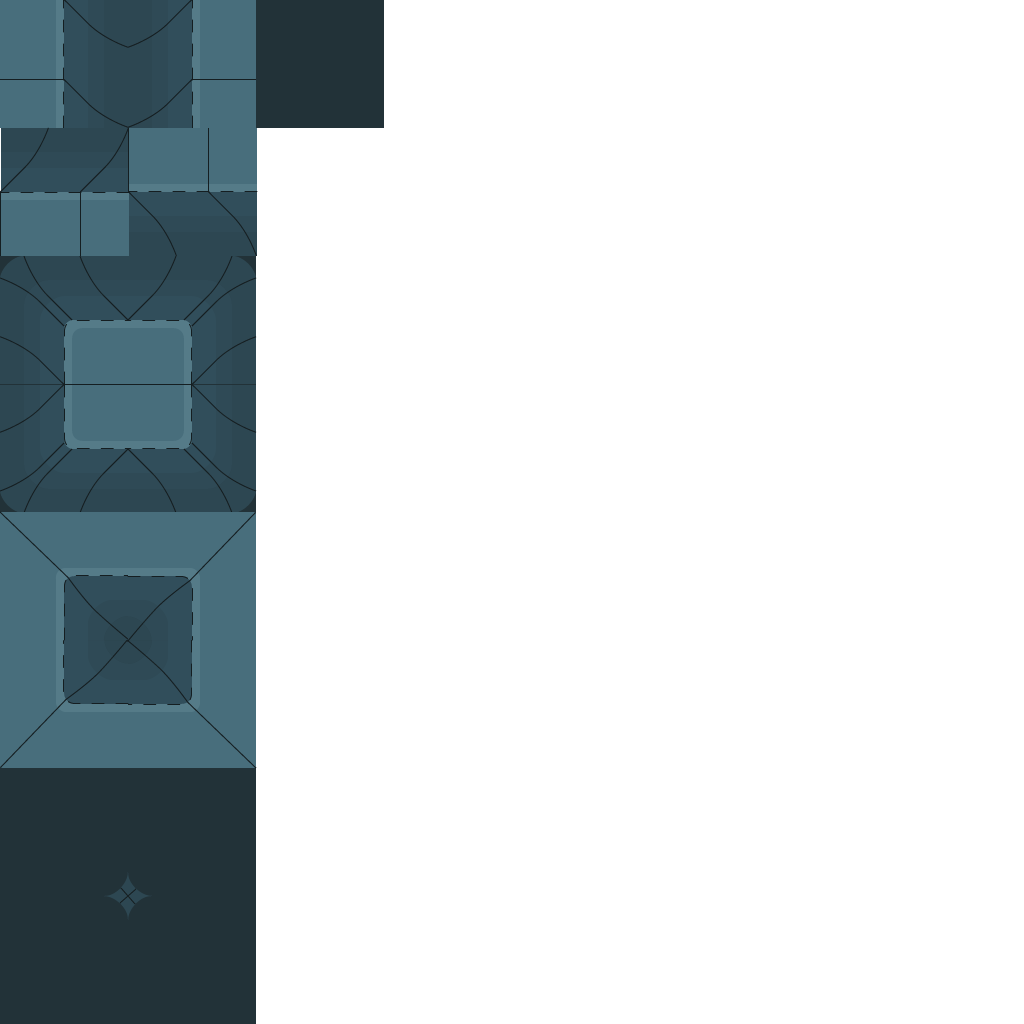
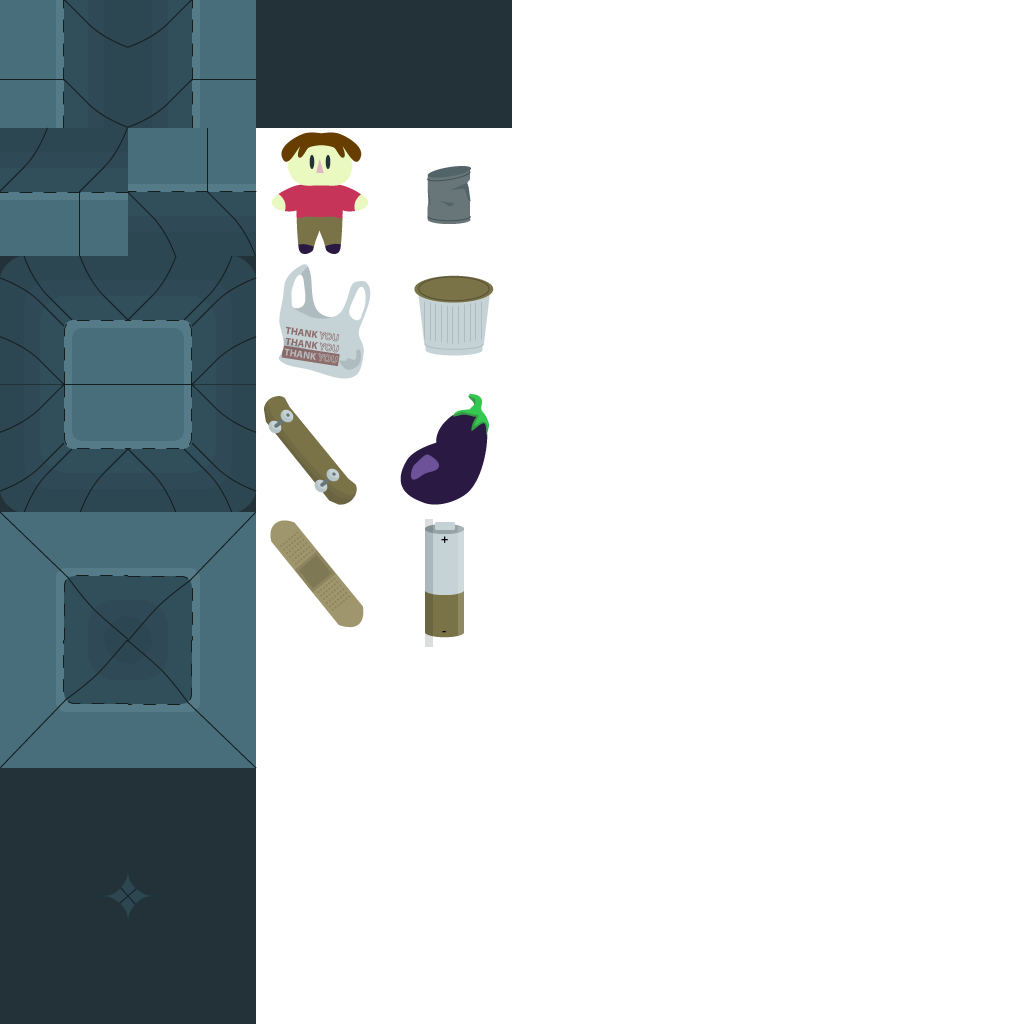
Merge

diff --git a/src/states/Game.js b/src/states/Game.js
@@ -3,7 +3,7 @@ import Phaser from 'phaser'
 import Player from '../sprites/Player'
 import {setResponsiveWidth} from '../utils'
 
-const PLAYER_SPEED = 100
+const PLAYER_SPEED = 200
 
 export default class extends Phaser.State {
   init () {}
@@ -25,11 +25,13 @@ export default class extends Phaser.State {
     this.sewer_layer = this.tilemap.createLayer('sewer')
     this.enemy_spawns_layer = this.tilemap.createLayer('enemy_spawns')
     // this.enemy_spawns_layer.visible = false
+    this.interact_layer = this.tilemap.createLayer('interact')
 
 
     this.tilemap.setCollisionByExclusion([0], true, 'sewer')
     // this.tilemap.setCollisionByExclusion([0], true, 'enemy_spawns')
     this.tilemap.setTileIndexCallback([65], this.generateEnemy, this, 'enemy_spawns')
+    //this.tilemap.setCollisionByExclusion([0], true, 'interact')
 
     this.loadEnemyTriggers()
 
@@ -48,7 +50,8 @@ export default class extends Phaser.State {
     this.player = new Player({
       game: this.game,
       x: 512,
-      y: 512
+      y: 512,
+      image: this.tilemap.tiles[10]
     })
 
     this.keys = this.game.input.keyboard.createCursorKeys()
@@ -80,6 +83,9 @@ export default class extends Phaser.State {
   update () {
     this.game.physics.arcade.collide(this.player, this.sewer_layer)
     // this.game.physics.arcade.overlap(this.player, this.enemy_spawns_triggers, this.generateEnemy, null, this)
+    if(this.game.physics.arcade.collide(this.player, this.interact_layer)) {
+      console.info('interact collide')
+    }
 
     this.game.physics.arcade.collide(this.player, this.enemy_spawns_layer)
     if (this.keys.left.isDown) {

diff --git a/src/states/Splash.js b/src/states/Splash.js
@@ -15,7 +15,8 @@ export default class extends Phaser.State {
     //
     this.game.load.tilemap('game', 'assets/tilemaps/game.json', null, Phaser.Tilemap.TILED_JSON)
     this.game.load.image('sewer-tiles', 'assets/images/sewer-tiles.png')
-    this.game.load.image('player', 'assets/images/player.png')
+    this.game.load.spritesheet('sewer-sprites', 'assets/images/sewer-tiles.png', 128, 128)
+    //this.game.load.image('player', 'assets/images/player.png')
     loadAudio(this.game, 'BGM-intro', 'assets/music/mus_song1_1')
     loadAudio(this.game, 'BGM-loop', 'assets/music/mus_song1_2')
   }

diff --git a/src/sprites/Item.js b/src/sprites/Item.js
@@ -1,0 +1,19 @@
+import Phaser from 'phaser'
+
+const FRAMES = [ 11, 18, 19, 26, 27, 34, 35 ]
+const ITEM_MAX = FRAMES.length - 1
+
+export default class extends Phaser.Sprite {
+
+  constructor ({ game, x, y, index }) {
+    super(game, x, y, 'sewer-sprites', FRAMES[Math.min(index, ITEM_MAX)])
+
+    this.game = game
+    this.anchor.setTo(0.5)
+    this.game.physics.arcade.enable(this)
+  }
+
+  update () {
+  }
+
+}

diff --git a/src/sprites/Player.js b/src/sprites/Player.js
@@ -3,7 +3,7 @@ import Phaser from 'phaser'
 export default class extends Phaser.Sprite {
 
   constructor ({ game, x, y }) {
-    super(game, x, y, 'player')
+    super(game, x, y, 'sewer-sprites', 10)
 
     this.game = game
     this.anchor.setTo(0.5)
